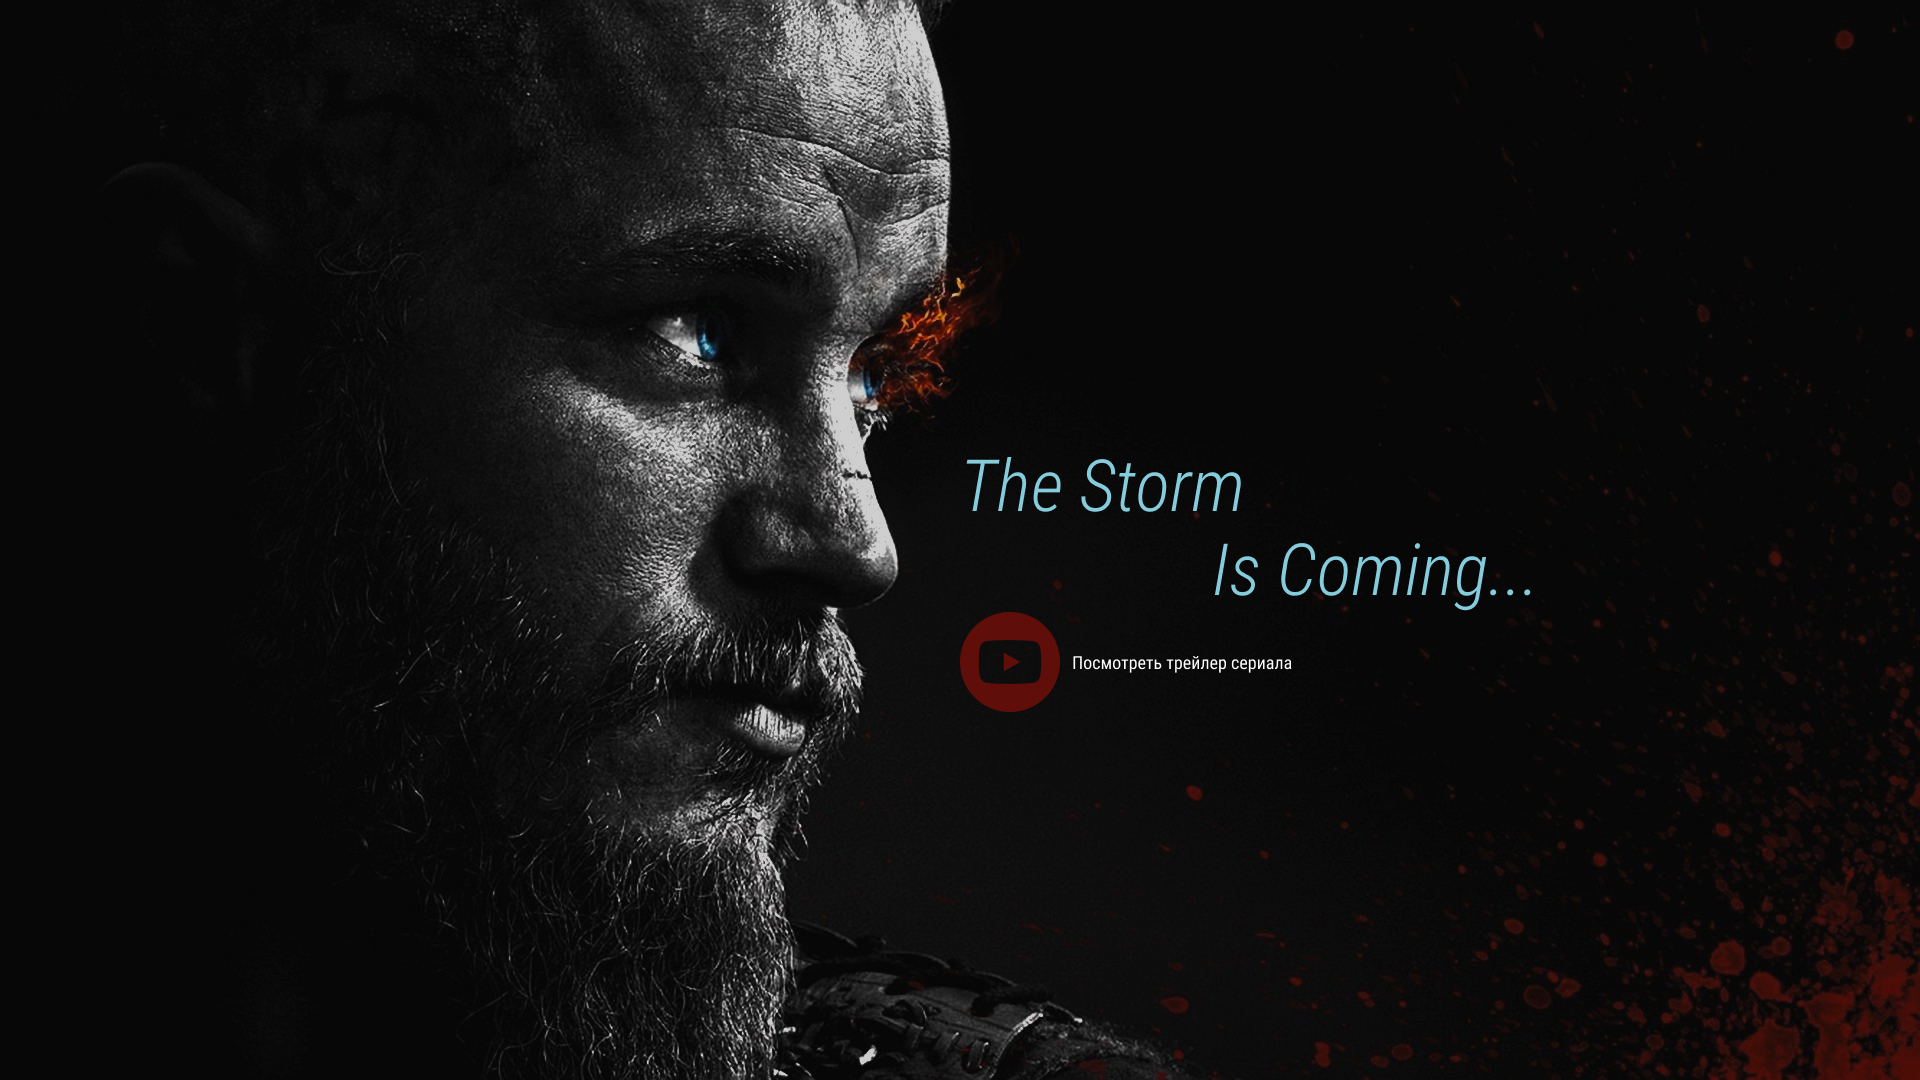
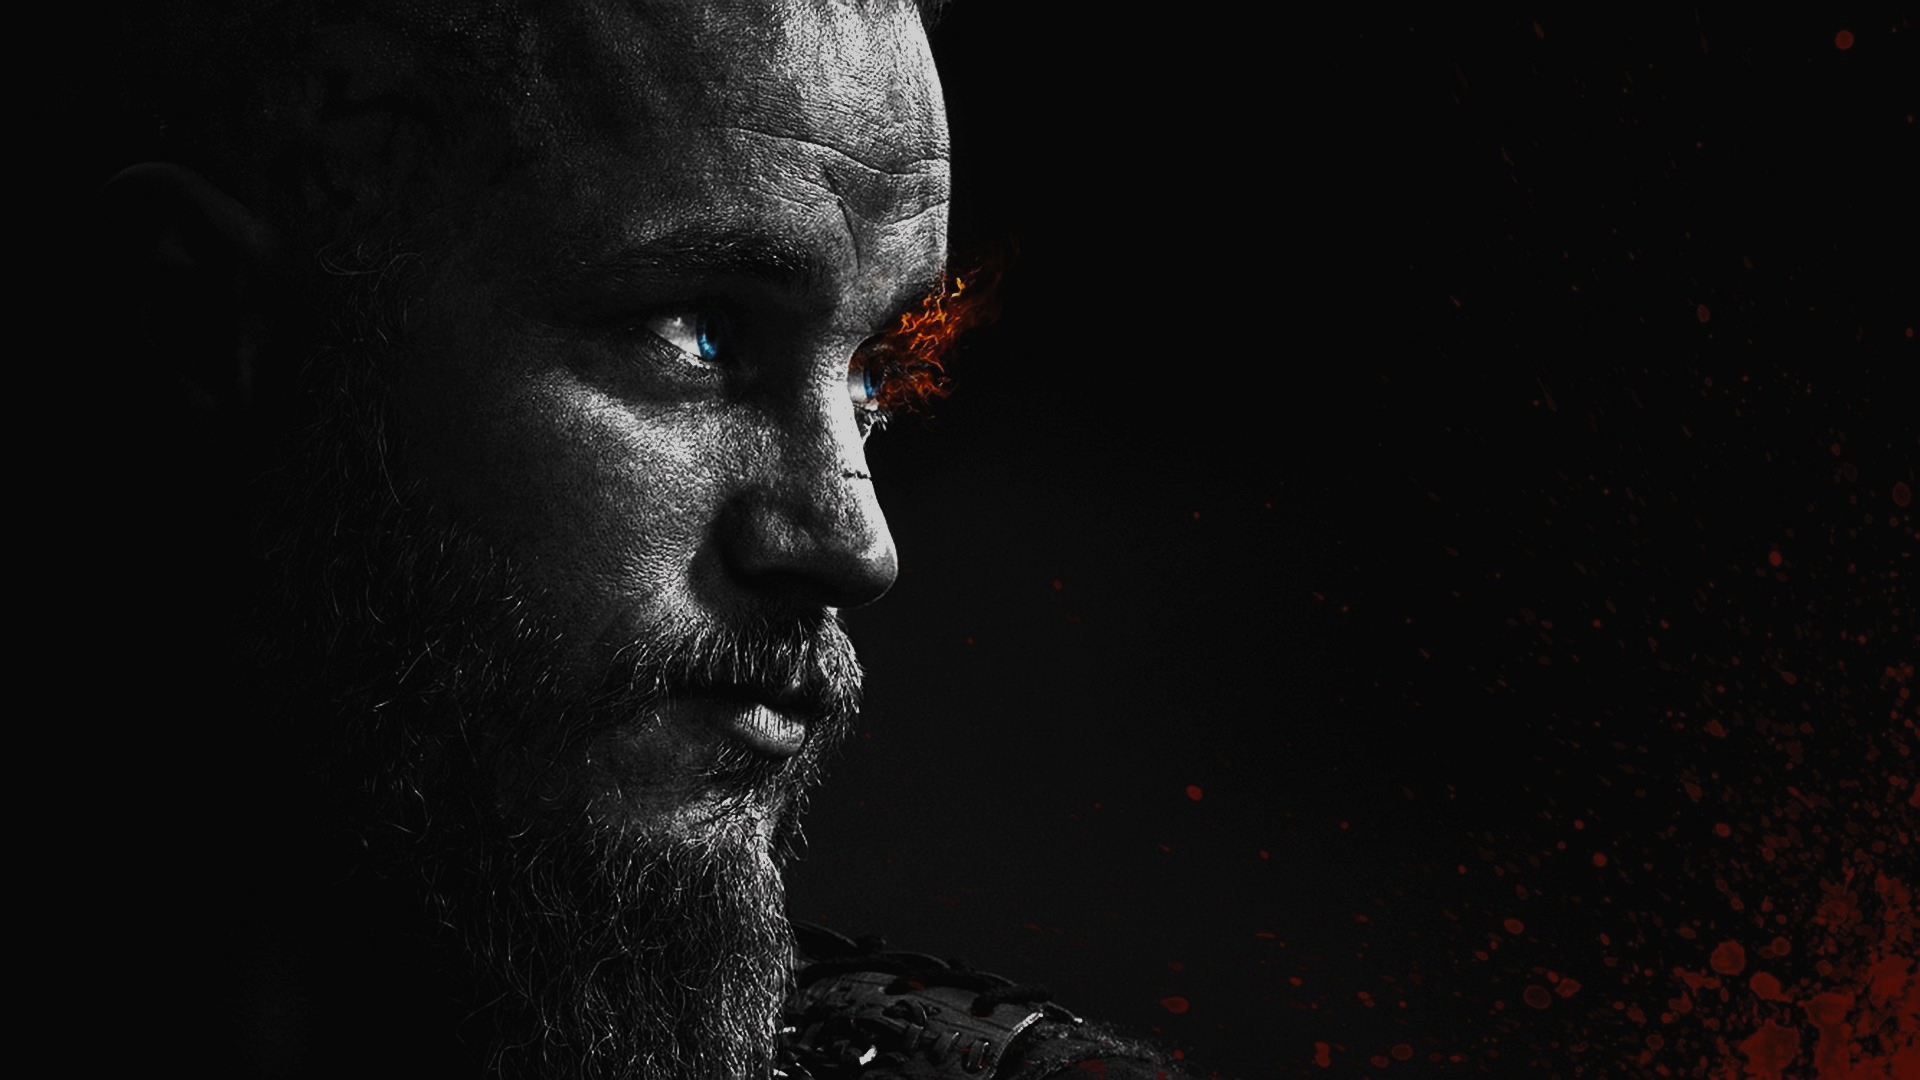
Feat: continuesed the project

Changed region(s): [[0.5, 0.55, 0.6562, 0.6722], [0.5, 0.4278, 0.6562, 0.4889], [0.625, 0.4889, 0.7812, 0.55]]

diff --git a/css/style.css b/css/style.css
@@ -38,12 +38,9 @@ ul {
     font-weight: 400;
 }
 
-
-
-
 .header {
     background-image: url(/images/header-bg.jpg);
-    height: 100vh;
+    height: 150vh;
     background-repeat: no-repeat;
     background-size: cover;
     background-position: center 50px;
@@ -61,9 +58,6 @@ ul {
     background: linear-gradient(180deg, #0E0E0E 0%, #0E0E0E 16.53%, rgba(32, 31, 33, 0) 100%);
     transform: rotate(180deg);
 }
-
-
-
 
 .menu__list {
     display: flex;
@@ -90,32 +84,73 @@ ul {
 }
 
 .logo {
-    padding-top: 280px;
+    padding-top: 550px;
 }
 
-.about__inner{
+.about__inner {
     display: flex;
 }
 
-.about__info{
+.about__info {
     width: 375px;
     margin-right: 50px;
     flex: none;
 }
 
-.about__info-item{
+.about__info-item {
     margin-bottom: 25px;
     color: #E5E5E5;
 }
 
-.about__info-item span{
+.about__info-item span {
     display: block;
 }
 
-.about__text p{
+.about__text p {
     margin-bottom: 25px;
 }
 
+.video {
+    background-image: url('/images/video-bg.jpg');
+    height: 100vh;
+    background-size: cover;
+    background-position: center center;
+    background-repeat: no-repeat;
+}
+
+.video__text {
+    text-align: right;
+    font-style: italic;
+    font-weight: 300;
+    font-size: 72px;
+    line-height: 84px;
+    color: #85CCDC;
+    padding-top: 444px;
+    margin-bottom: 40px;
+    
+}
+
+.video__text span{
+    display: block;
+    padding-right: 250px;
+
+}
+
+.video__btn {
+    padding-left: 112px;
+    position: relative;
+    margin-left: 670px;
+       
+}
+
+.video__btn::before {
+    content: '';
+    position: absolute;
+    width: 100px;
+    height: 100px;
+    top: -40px;
+    left: 0;
+    background-image: url(/images/youtube\ .svg);
 
 
-
+}

diff --git a/index.html b/index.html
@@ -82,14 +82,18 @@
                         нашей эры. С другой стороны – отсутствие точных исторических фактов и (полу)легендарность
                         многих событий позволили авторам сериала вольную трактовку многих событий.
                     </p>
-
                 </div>
-
             </div>
-
-
         </div>
-
+    </section>
+    <section class="video">
+        <div class="conteiner">
+            <h3 class="video__text">
+                <span>The Storm</span>
+                Is Coming...
+            </h3>
+            <a class="video__btn" href="#">Посмотреть трейлер сериала</a>
+        </div>
     </section>
 
 
